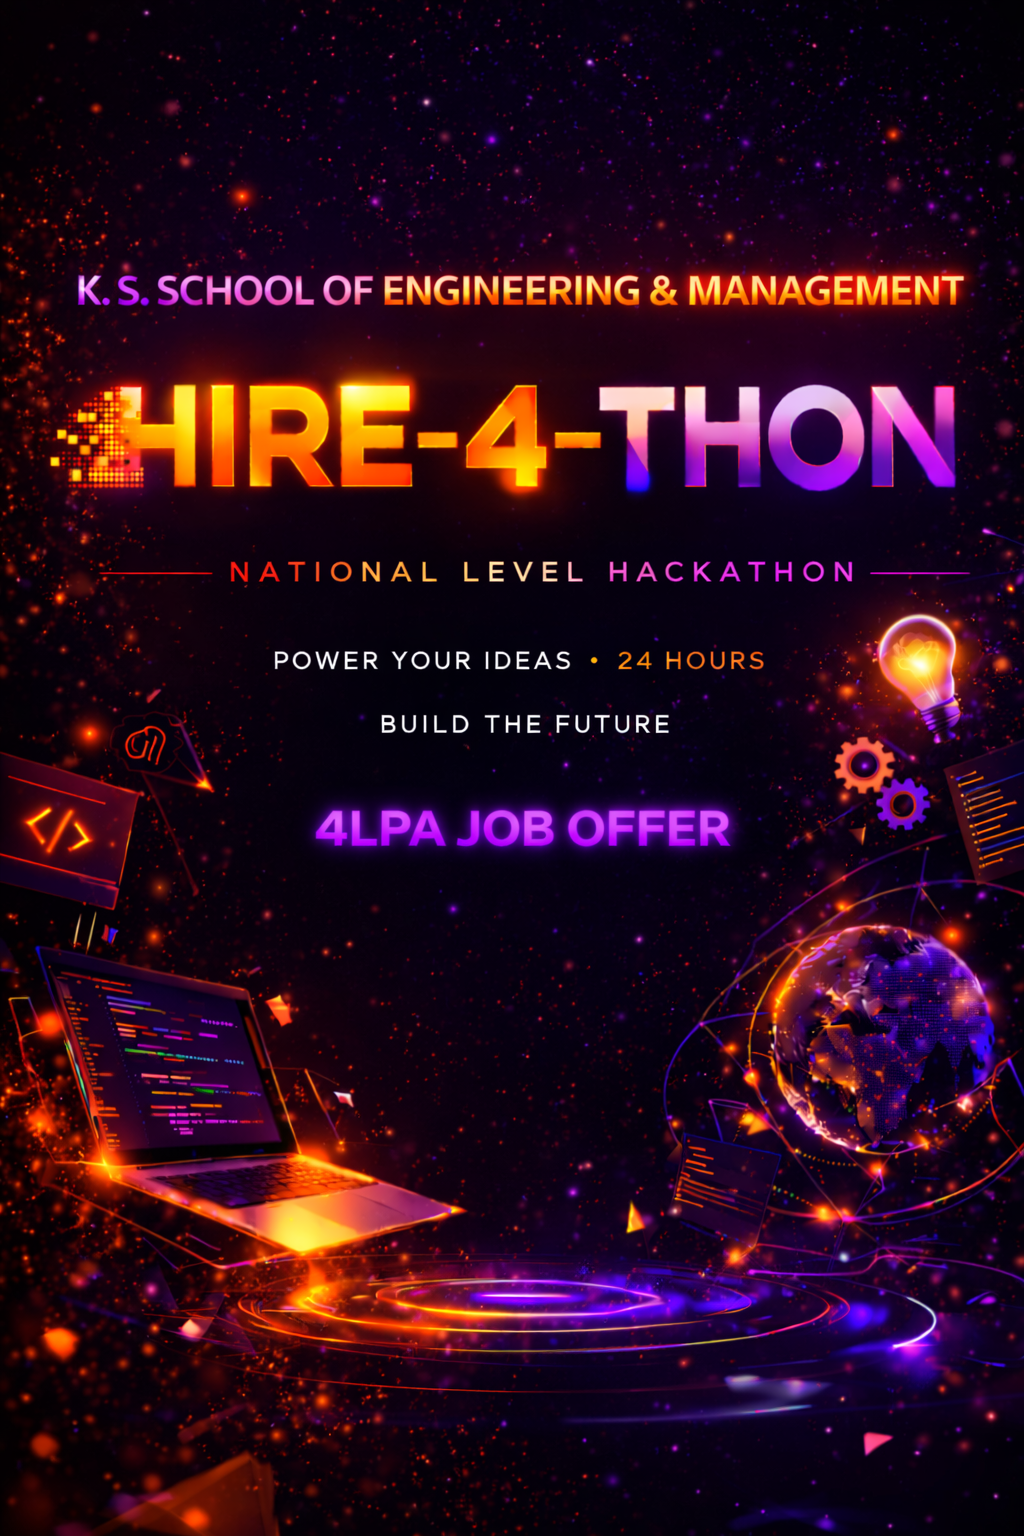
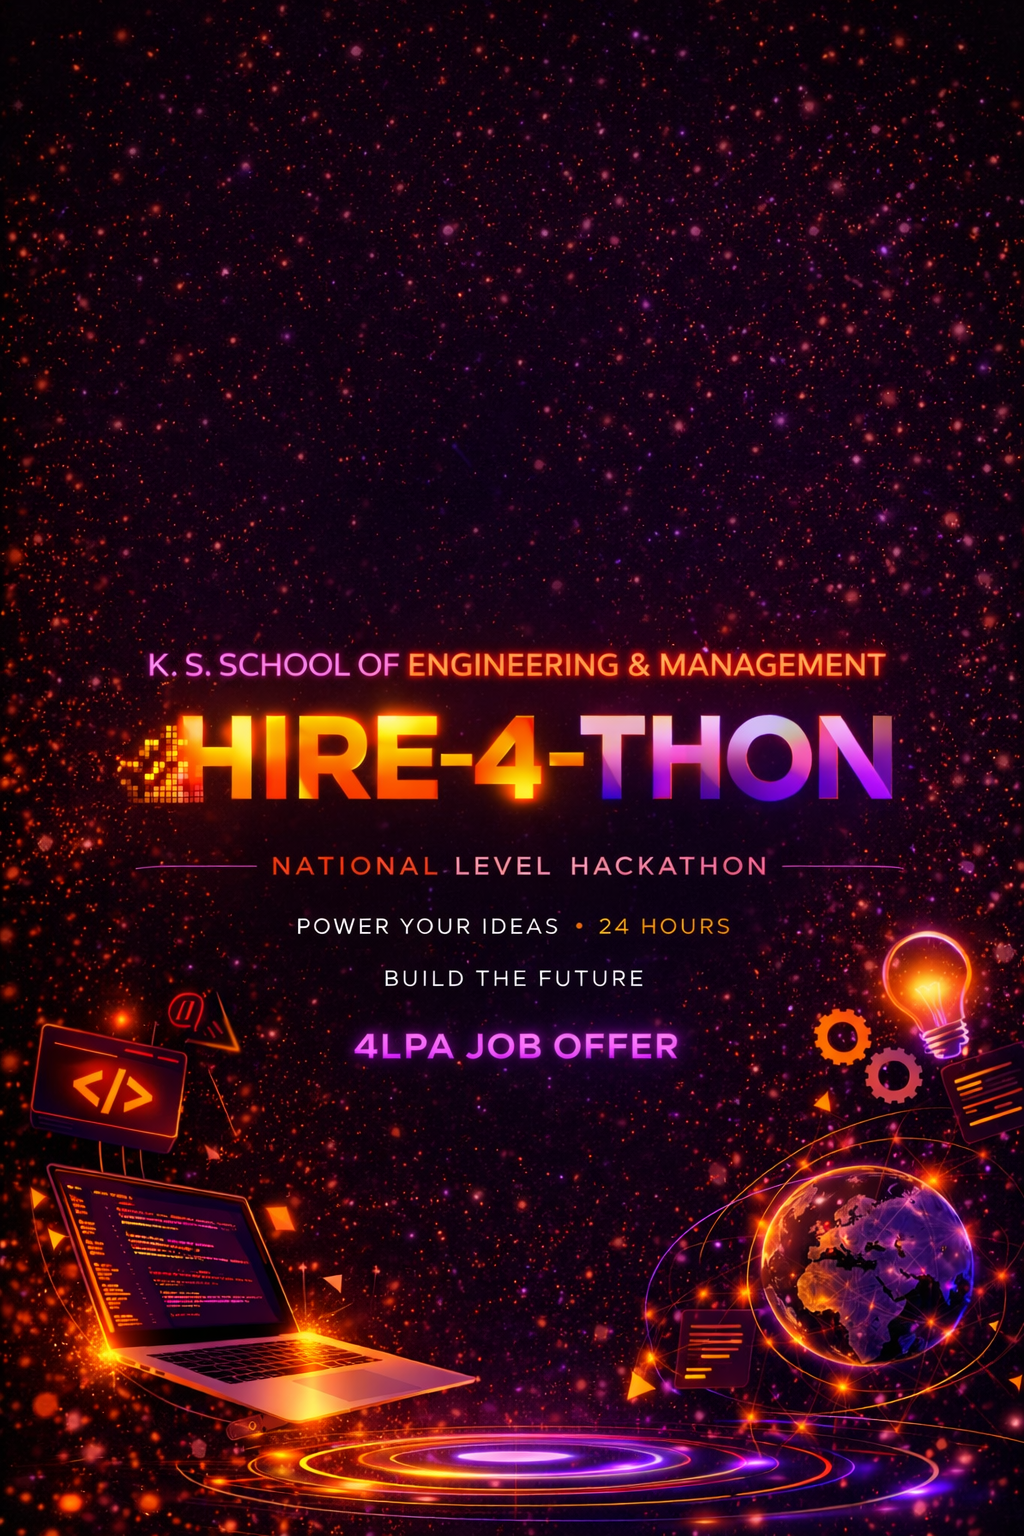
corrected mobile image

diff --git a/frontend/src/app/page.tsx b/frontend/src/app/page.tsx
@@ -197,28 +197,36 @@ export default function Home() {
   const [openFaq, setOpenFaq] = useState<number | null>(null);
 
   useEffect(() => {
-    let ticking = false;
+    if ("scrollRestoration" in history) {
+      history.scrollRestoration = "manual";
+    }
 
-    const restore = () => {
-      const saved = sessionStorage.getItem("scroll-pos");
-      if (saved) {
-        const top = parseFloat(saved);
-        requestAnimationFrame(() => window.scrollTo({ top, behavior: "auto" }));
-      }
-    };
-
-    const onScroll = () => {
-      if (ticking) return;
-      ticking = true;
+    const saved = sessionStorage.getItem("scroll-pos");
+    if (saved) {
+      const top = parseFloat(saved);
       requestAnimationFrame(() => {
+        requestAnimationFrame(() => {
+          window.scrollTo({ top, left: 0, behavior: "auto" });
+        });
+      });
+    }
+
+    let rafId = 0;
+    const onScroll = () => {
+      cancelAnimationFrame(rafId);
+      rafId = requestAnimationFrame(() => {
         sessionStorage.setItem("scroll-pos", String(window.scrollY));
-        ticking = false;
       });
     };
 
-    restore();
     window.addEventListener("scroll", onScroll, { passive: true });
-    return () => window.removeEventListener("scroll", onScroll);
+    return () => {
+      window.removeEventListener("scroll", onScroll);
+      cancelAnimationFrame(rafId);
+      if ("scrollRestoration" in history) {
+        history.scrollRestoration = "auto";
+      }
+    };
   }, []);
 
   return (
@@ -301,7 +309,7 @@ export default function Home() {
         className="hero-banner relative h-[65vh] w-full bg-cover bg-center bg-no-repeat sm:h-[72vh] md:h-[80vh] lg:h-screen"
       />
 
-      <main className="relative mx-auto max-w-6xl px-4 pb-16 pt-6 sm:px-6 md:px-8 lg:px-6">
+      <main className="relative mx-auto mt-16 max-w-6xl px-4 pb-16 pt-6 sm:mt-24 sm:px-6 md:px-8 lg:mt-28 lg:px-6 space-y-28 sm:space-y-32">
 
 
         <section id="about" className="section">
